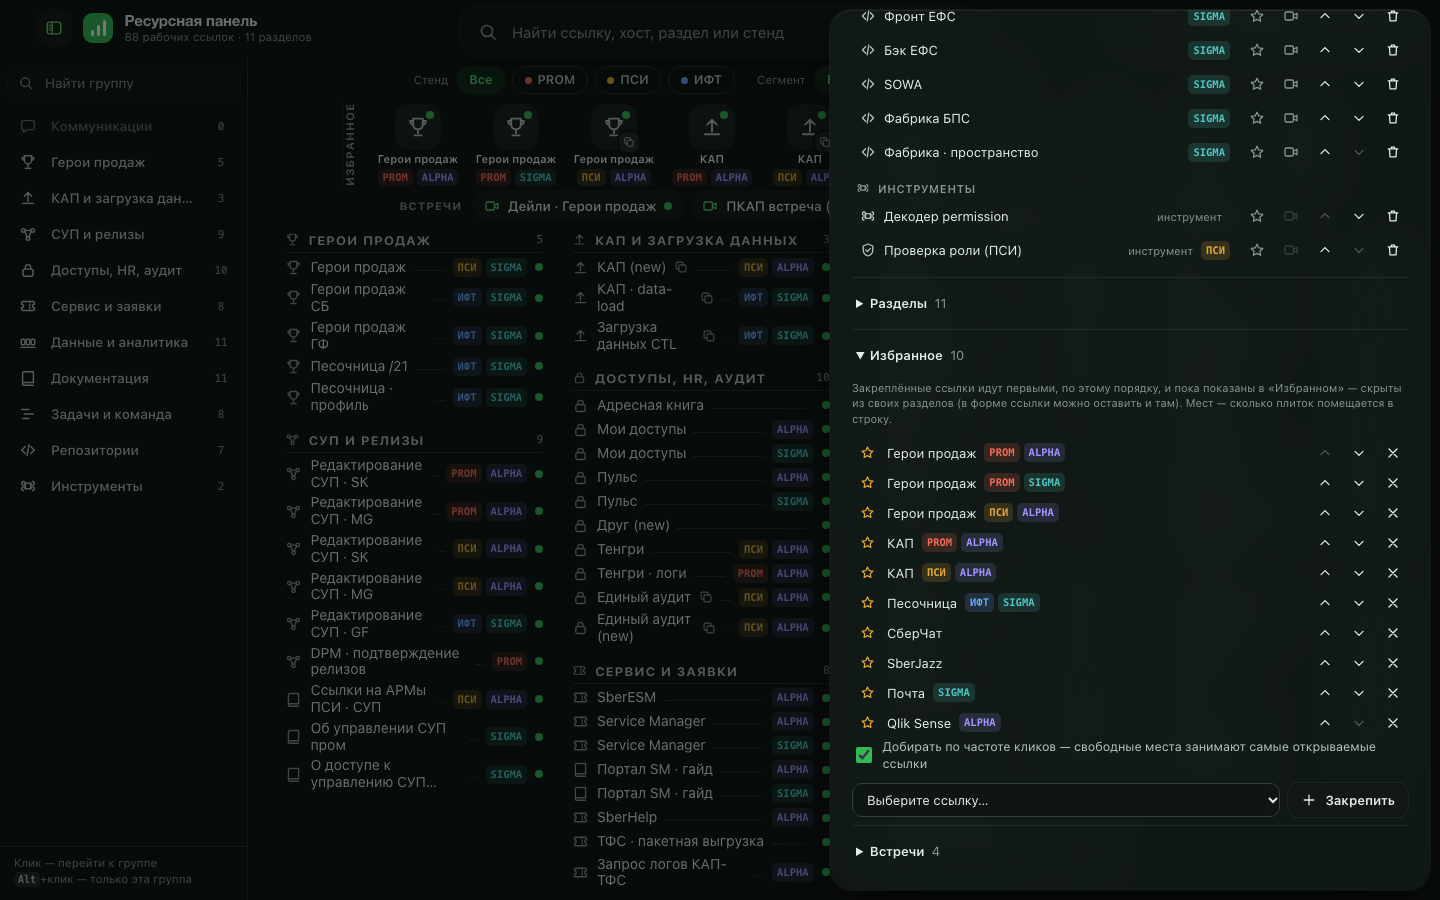
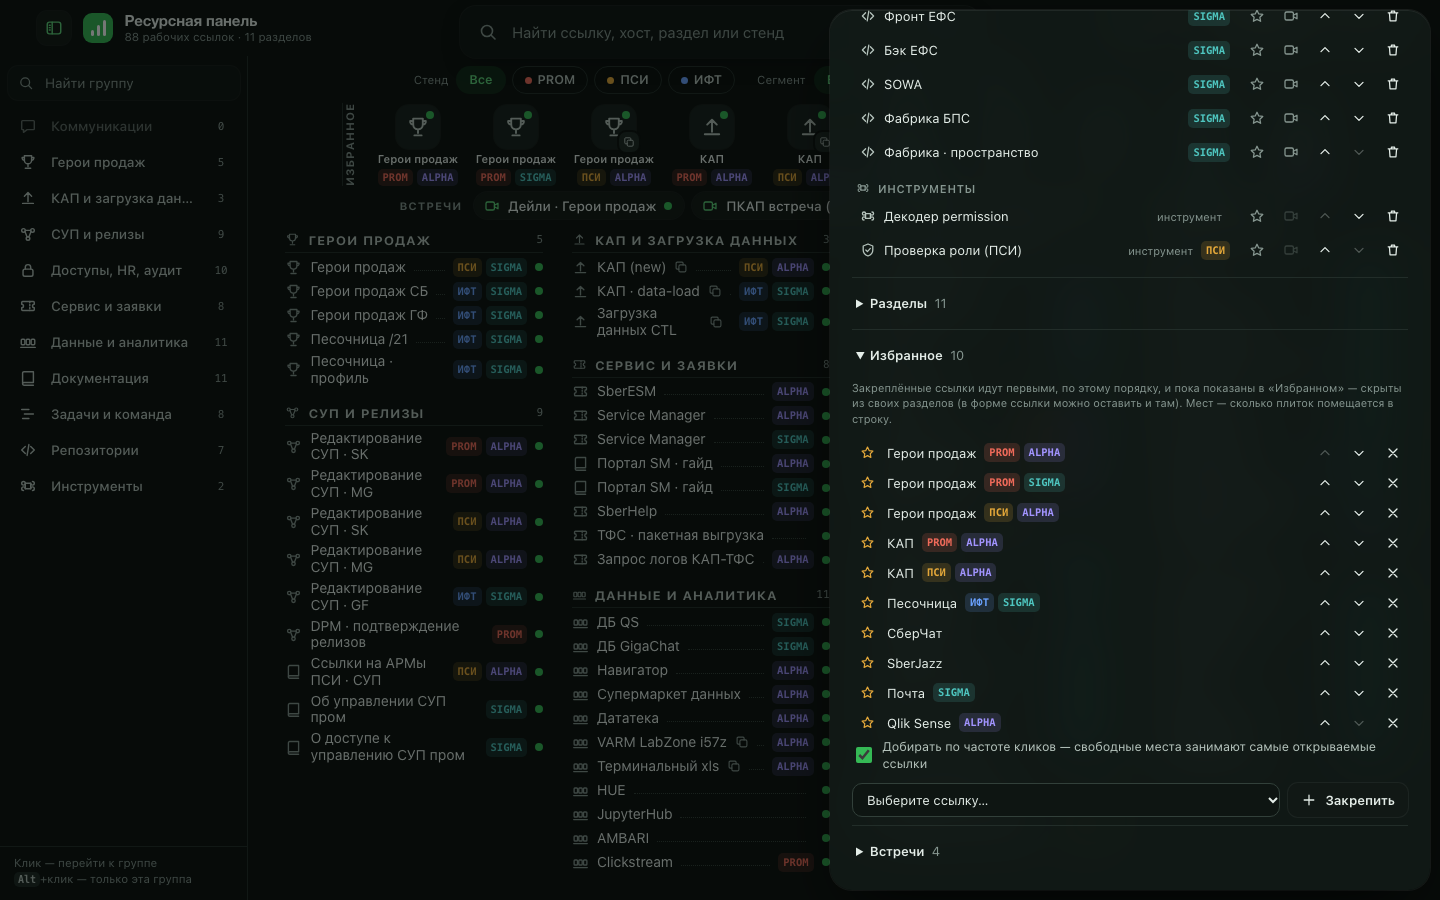
fix(panel-v8): review round 1 — scrollable index during search, hidden meetings searchable, title wrap priority
Правки по ревью: при поиске указатель прокручивается, скрытые встречи находятся поиском, короткие названия не переносятся раньше времени.

- search: body.q makes the fit-mode index scroll internally (R14); page still never scrolls
- meetings hidden from their section are built as .away rows like pinned ones (R12): search/arrows/Enter reach them
- title priority (R15): leader basis 0, overflow-wrap:break-word, non-breaking hyphen inside words for display
- groups rail: section fully moved to favourites/meetings is muted with a tooltip and aria hint
- HANDOFF: favourites model after revision 1 (no rankFavorites/favoriteSeed)

Changed region(s): [[0.1875, 0.3111, 0.5938, 0.9956]]

diff --git a/panel-v8/panel.js b/panel-v8/panel.js
@@ -476,6 +476,8 @@
   var ENV_LBL = { PROM: "PROM", PSI: "ПСИ", IFT: "ИФТ" }, SEG_LBL = { ALPHA: "Alpha", SIGMA: "Sigma" };
   var isMac = /Mac|iPhone|iPad/.test(navigator.platform);
 
+  // Для показа: дефис внутри слова — неразрывный (U+2011), чтобы «data-load» не переносился по дефису; длина строки та же
+  function nbh(t) { return String(t).replace(/([0-9A-Za-zА-Яа-яЁё])-(?=[0-9A-Za-zА-Яа-яЁё])/g, "$1\u2011"); }
   function esc(s) { return String(s).replace(/[&<>"]/g, function (c) { return { "&": "&amp;", "<": "&lt;", ">": "&gt;", '"': "&quot;" }[c]; }); }
 
   // Состояние страницы; later-задачи читают и дополняют его
@@ -511,8 +513,8 @@
   }
 
   // ---------- Отрисовка ----------
-  // Строки указателя: встречи с meetHide !== false не строятся; показанные закреплённые (favHide !== false) —
-  // строятся, но скрыты (.away), пока нет поискового запроса. Раздел без видимых строк не показывается (.void).
+  // Строки указателя: показанные закреплённые (favHide !== false) и встречи (meetHide !== false) строятся, но скрыты (.away),
+  // пока нет поискового запроса — поиск, ↑↓ и Enter находят и их. Раздел без видимых строк не показывается (.void).
   function buildIndex() {
     S.lineEl = {}; S.secEl = {}; S.secN = {};
     var hide = S.hide || new Set();
@@ -523,10 +525,10 @@
       sec.innerHTML = '<h2 class="sh" id="h-' + s.id + '">' + I(RP.icons.has(s.icon) ? s.icon : "link") + "<span>" + esc(s.name) + "</span><em></em></h2>";
       var n = 0;
       S.data.links.forEach(function (l) {
-        if (l.section !== s.id || (l.meet && hide.has(l.id))) return;
+        if (l.section !== s.id) return;
         var el = linkEl(l, "ln");
         el.id = "ln-" + l.id; el.setAttribute("aria-label", ariaOf(l));
-        el.innerHTML = I(iconOf(l)) + '<span class="tt">' + esc(l.title) + "</span>" + (l.copy ? I("copy", "ui-i cp") : "") +
+        el.innerHTML = I(iconOf(l)) + '<span class="tt">' + esc(nbh(l.title)) + "</span>" + (l.copy ? I("copy", "ui-i cp") : "") +
           '<span class="ld"></span>' + tagsHtml(l) + '<span class="dot"></span>';
         if (hide.has(l.id)) { el.classList.add("away"); el.hidden = true; } else n++;
         S.lineEl[l.id] = el; sec.appendChild(el);
@@ -543,7 +545,7 @@
       if (!l.meet) return;
       var a = linkEl(l, "mt");
       a.setAttribute("aria-label", "Встреча: " + ariaOf(l));
-      a.innerHTML = I("video") + '<span class="tt">' + esc(l.title) + '</span><span class="dot"></span>';
+      a.innerHTML = I("video") + '<span class="tt">' + esc(nbh(l.title)) + '</span><span class="dot"></span>';
       S.meetEl[l.id] = a; box.appendChild(a);
     });
     box.parentNode.hidden = !box.children.length;
@@ -555,7 +557,7 @@
       var l = S.byId[id], a = linkEl(l, "app");
       a.setAttribute("aria-label", ariaOf(l));
       a.innerHTML = '<span class="sq">' + I(iconOf(l)) + '<span class="dot"></span>' + (l.copy ? '<span class="cp">' + I("copy") + "</span>" : "") +
-        '</span><span class="lb">' + esc(l.title) + "</span>" + tagsHtml(l);
+        '</span><span class="lb">' + esc(nbh(l.title)) + "</span>" + tagsHtml(l);
       dock.appendChild(a);
     });
     $(".favs").hidden = !dock.children.length;
@@ -957,8 +959,8 @@
       var m = passes(l), ln = S.lineEl[l.id], mt = S.meetEl[l.id];
       if (m.hit) n++;
       // Закреплённая, скрытая из раздела, возвращается в раздел только на время поиска (Enter/↑↓ находят её)
-      if (ln) { ln.hidden = !m.hit || (ln.classList.contains("away") && !qOn); $(".tt", ln).innerHTML = hl(l.title, m.hit ? m.ranges : []); }
-      if (mt) { mt.classList.toggle("mute", !m.hit); $(".tt", mt).innerHTML = hl(l.title, m.hit ? m.ranges : []); }
+      if (ln) { ln.hidden = !m.hit || (ln.classList.contains("away") && !qOn); $(".tt", ln).innerHTML = hl(nbh(l.title), m.hit ? m.ranges : []); }
+      if (mt) { mt.classList.toggle("mute", !m.hit); $(".tt", mt).innerHTML = hl(nbh(l.title), m.hit ? m.ranges : []); }
     });
     S.data.sections.forEach(function (s) {
       var sec = S.secEl[s.id]; if (!sec) return;
@@ -968,6 +970,8 @@
     $$(".app", $("#dock")).forEach(function (a) { a.classList.toggle("mute", !passes(S.byId[a.dataset.linkId]).hit); });
     $("#cnt").textContent = on ? n + " из " + total : total + " ссылок";
     $("#omni").classList.toggle("has", !!F.q);
+    // Поиск возвращает скрытые строки сверх подобранной плотности: указатель на время запроса прокручивается сам (страница — нет)
+    document.body.classList.toggle("q", qOn);
     $("#q").setAttribute("aria-expanded", on ? "true" : "false");
     if (S.paintGroups) S.paintGroups();
     setActive(-1);
@@ -1091,9 +1095,11 @@
     $$(".gr", gp).forEach(function (li) {
       var id = li.dataset.sec, s = S.secById[id], o = off.indexOf(id) >= 0, n = S.secN[id] || 0, eye = $(".gr-eye", li);
       if (!s) return;
-      li.classList.toggle("off", o); li.classList.toggle("zero", !o && !n);
+      var vd = !!(S.secEl[id] && S.secEl[id].classList.contains("void"));
+      li.classList.toggle("off", o); li.classList.toggle("zero", !o && !n); li.classList.toggle("void", vd);
+      if (vd) li.title = "Все ссылки группы — в избранном и встречах"; else li.removeAttribute("title");
       $(".ic b", li).textContent = n; $(".c", li).textContent = n;
-      $(".gr-go", li).setAttribute("aria-label", s.name + ", ссылок: " + n + (o ? ", скрыта в списке" : ""));
+      $(".gr-go", li).setAttribute("aria-label", s.name + ", ссылок: " + n + (o ? ", скрыта в списке" : "") + (vd ? ", все ссылки в избранном и встречах" : ""));
       eye.innerHTML = I(o ? "eyeoff" : "eye"); eye.setAttribute("aria-pressed", o ? "false" : "true");
       eye.setAttribute("aria-label", (o ? "Показать" : "Скрыть") + " группу «" + s.name + "» в списке");
       eye.title = o ? "Показать в списке" : "Скрыть из списка";
@@ -1181,7 +1187,7 @@
       var go = e.target.closest(".gr-go");
       if (!go) return hideGtip();
       var r = go.getBoundingClientRect(), id = go.parentNode.dataset.sec, sm = document.createElement("small");
-      gtip.textContent = go.dataset.name; sm.textContent = S.off.indexOf(id) >= 0 ? "скрыта" : (S.secN[id] || 0); gtip.appendChild(sm);
+      gtip.textContent = go.dataset.name; sm.textContent = S.off.indexOf(id) >= 0 ? "скрыта" : go.parentNode.classList.contains("void") ? "в избранном" : (S.secN[id] || 0); gtip.appendChild(sm);
       gtip.style.transform = "translate(" + Math.round(gp.getBoundingClientRect().right + 8) + "px," + Math.round(r.top + r.height / 2 - 15) + "px)";
       gtip.classList.add("on");
     });

diff --git a/panel-v8/panel.css b/panel-v8/panel.css
@@ -252,7 +252,7 @@ kbd { font: 600 10.5px/1 var(--mono); color: var(--ink2); background: var(--sf3)
 /* Подпись плитки — до 2 строк; метки прижаты книзу, чтобы стоять на одной линии у соседних плиток */
 .app .lb {
   max-width: 100%; font-size: var(--fs-xs); font-weight: var(--fw-sb); line-height: 1.25; color: var(--ink); text-align: center;
-  display: -webkit-box; -webkit-box-orient: vertical; -webkit-line-clamp: 2; line-clamp: 2; max-height: 2.5em; overflow: hidden; overflow-wrap: anywhere;
+  display: -webkit-box; -webkit-box-orient: vertical; -webkit-line-clamp: 2; line-clamp: 2; max-height: 2.5em; overflow: hidden; overflow-wrap: break-word;
 }
 .app .tags { min-height: 19px; margin-top: auto; }
 .app[data-st="down"] .lb { color: var(--mut); }
@@ -269,6 +269,8 @@ body.fit.compact .idx { padding-top: 8px; padding-bottom: 6px; }
   display: grid; grid-template-columns: repeat(var(--cols), minmax(0, 1fr)); column-gap: clamp(22px, 2vw, 44px); align-content: start;
 }
 body.fit .idx { overflow: hidden; padding-bottom: 10px; }
+/* Идёт поиск: в разделы вернулись скрытые строки — указатель прокручивается внутри, страница остаётся без прокрутки */
+body.fit.q .idx { overflow: hidden auto; overscroll-behavior: contain; }
 /* Плотная ступень: омнибокс поднимается в строку шапки, сводка — только цифры */
 body.compact .hero { margin-top: calc(-1 * var(--top-h) + 2px); pointer-events: none; }
 body.compact .hero > * { pointer-events: auto; }
@@ -294,12 +296,12 @@ body.compact .sum .lbl { display: none; }
 .ln > .ui-i { width: 17px; height: 17px; color: var(--mut); }
 /* Название — до 2 строк, многоточие только после второй; полное — в подсказке */
 .ln .tt {
-  flex: 0 1 auto; min-width: 0; line-height: 1.2; overflow-wrap: anywhere;
+  flex: 0 1 auto; min-width: 0; line-height: 1.2; overflow-wrap: break-word;
   display: -webkit-box; -webkit-box-orient: vertical; -webkit-line-clamp: 2; line-clamp: 2; max-height: 2.4em; overflow: hidden;
 }
 .ln .cp { width: 14px; height: 14px; color: var(--mut); }
 /* Отточие, как в оглавлении книги: ведёт взгляд от названия к меткам */
-.ln .ld { flex: 1 1 10px; min-width: 0; height: 0; border-bottom: 1px dotted var(--line2); transform: translateY(3px); }
+.ln .ld { flex: 1 1 0; min-width: 0; height: 0; border-bottom: 1px dotted var(--line2); transform: translateY(3px); }
 /* Недоступная ссылка: гаснет только название; иконка, метки и красная точка остаются в цвете */
 .ln[data-st="down"] .tt { color: var(--mut); }
 .sec { border-radius: 10px; transition: background .6s var(--ease), box-shadow .6s var(--ease); }
@@ -319,7 +321,7 @@ mark { background: var(--g-t); color: var(--g-ink); border-radius: 3px; padding:
 .mt:hover { background: var(--sf2); }
 .mt > .ui-i { width: 16px; height: 16px; color: var(--g-ink); }
 .mt .tt {
-  max-width: 220px; white-space: normal; line-height: 1.2; overflow-wrap: anywhere;
+  max-width: 220px; white-space: normal; line-height: 1.2; overflow-wrap: break-word;
   display: -webkit-box; -webkit-box-orient: vertical; -webkit-line-clamp: 2; line-clamp: 2; max-height: 2.4em; overflow: hidden;
 }
 .mt[data-st="down"] .tt { color: var(--mut); }

diff --git a/panel-v8/docs/HANDOFF.md b/panel-v8/docs/HANDOFF.md
@@ -20,13 +20,14 @@
 ## Сделано (ветка `feature/links-panel-v8`)
 
 1. `links.js` (86 ссылок, из них 4 встречи, + 2 инструмента, 11 разделов) и `RP.core.validate/serializeLinks`.
-2. Ядро: `parseUrl`, `match`, `rankFavorites`, `decodePermission`, `balanceColumns`.
+2. Ядро: `parseUrl`, `match`, `decodePermission`, `balanceColumns`; после доработки 1 — `normalize`, `pickFavorites`, `hiddenInIndex` (`rankFavorites` удалён).
 3. Каркас, стили v8, рендер, вписывание (1440×900 и 1920×1080 без прокрутки), темы, экран ошибки `links.js`.
 4. Настоящая проверка доступности (6 с, ≤6 параллельно, 120 с, кнопка).
 5. Клик/копирование (синхронно до открытия), Ctrl/⌘+клик, подсказка, поиск, фильтры, избранное, встречи, «Ничего не нашлось».
 6. Левая панель групп (3 состояния, поиск, «глаз», Alt+клик, шторка), Декодер, Проверка роли, `RP.modal`.
 7. Администрирование: редактор ссылок и разделов, «Скачать links.js», площадка скриптов, `admin/README.md`.
 8. README, `open-panel.sh`, итоговые скриншоты `docs/shots/final-*.png`; проверено в Chrome и Playwright WebKit.
+9. Доработка 1 (спецификация §12): формат `favorites` + `fav`/`favHide`/`meetHide` + `settings.favAuto` (старый `favoriteSeed` читается и превращается в `favorites`, выгрузка пишет новый формат); «Избранное» = закреплённые по порядку + автодобор по кликам, мест — сколько плиток помещается в строку; показанные закреплённые и встречи скрыты из разделов (при поиске возвращаются, указатель тогда прокручивается сам); в админке ★/камера у строк, «Скрыть из раздела» в форме, блоки «Избранное» и «Встречи»; названия до 2 строк. Скриншоты `docs/shots/rev1-*.png`.
 
 Итоговая проверка всей ветки: критичных нет, вердикт «готово к слиянию после исправлений» (ниже).
 
@@ -41,7 +42,7 @@
 3. Админка: Esc / клик мимо / смена вкладки стирают заполненную форму — хранить черновик `A.draft`. + e2e.
 4. Клик теряется после переименования раздела (перерисовка на `change`). + e2e.
 5. Цепочка проверки доступности без `catch/finally` — исключение в колбэке оставляет «Проверить» зависшей навсегда.
-6. `validate`: `favoriteSeed` должен быть массивом. + core-тест.
+6. `validate`: `favoriteSeed` должен быть массивом. + core-тест. (После доработки 1 то же проверяется для `favorites`.)
 7. e2e вписывания: перебор `rp_rail` (open/compact/hidden) × тема на 1440×900.
 
 Как продолжить: взять ветку `wip/links-panel-v8-final-fixes` (там часть правок уже внесена — сначала прогнать тесты и посмотреть `git diff 80e84d2 wip/links-panel-v8-final-fixes`), довести все 7 пунктов, убедиться в зелёных тестах, затем перенести в `feature/links-panel-v8` (`git merge --ff-only` или cherry-pick) и удалить WIP-ветку. Скрипты воспроизведения дефектов от проверяющего были во временной папке сессии (`scratchpad/rv.mjs`, `rv2.mjs`) — после перезапуска могут отсутствовать.
@@ -60,9 +61,9 @@
 
 - R1: e2e копируют панель во временный каталог на каждый тест (Playwright не перехватывает `file://`).
 - R2: Ctrl/⌘+клик в тестах — Meta+клик и синтетический `ctrlKey`; Ctrl+клик на macOS обрабатывается и через `contextmenu`.
-- R3: редактор реализует §8 полностью, включая правку разделов и `favoriteSeed`.
+- R3: редактор реализует §8 полностью, включая правку разделов; избранное правится блоком «Избранное» (до доработки 1 — `favoriteSeed`).
 - R4: команда тестов — `node --test 'panel-v8/tests/*.test.mjs'`.
-- R5: избранное без кликов = `favoriteSeed` без встреч/инструментов, первые 9.
+- R5 (заменено доработкой 1): избранное = закреплённые (`fav`, порядок `favorites`), затем при `settings.favAuto` — самые частые по кликам (без встреч/инструментов); мест — сколько плиток помещается в строку, не меньше 4.
 - R6: тестовый помощник закрывает браузер и чистит каталог при сбое.
 - R7: копирование кода — сначала синхронный `execCommand('copy')`, потом `navigator.clipboard` (иначе копия не успевает до открытия вкладки). Это меняет порядок из спецификации §5.
 - R8: поиск групп — по подстроке («дан» находит и «Данные…», и «КАП и загрузка данных»).
